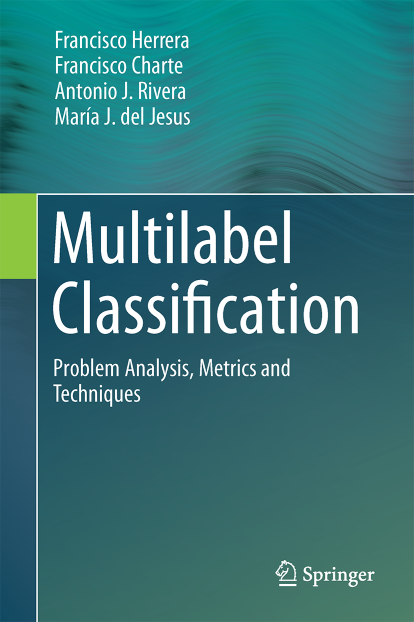
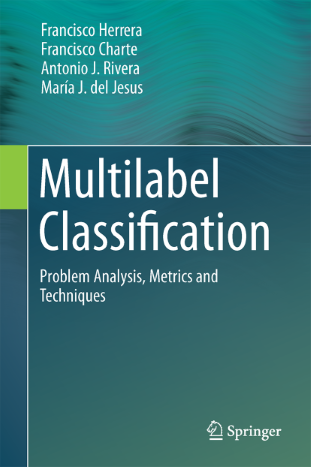
Resize book cover and link it to the book's web page

diff --git a/README.md b/README.md
@@ -4,7 +4,7 @@ by [Francisco Herrera](https://scholar.google.es/citations?hl=es&user=HULIk-QAAA
 
 [Springer](http://www.springer.com/gp/book/9783319411101), 2016.
 
-![Book Cover](Resources/BookCover.png)
+[![Book Cover](Resources/BookCover.png)](http://www.springer.com/gp/book/9783319411101)
 
 This repository provides the multilabel datasets used throughout the chapters of the book *Multilabel Classification - Problem analysis, metrics and techniques*, as well as some code and links. Click the folder corresponding the chapters (in the list above) to download the files you are interested in. You can also clone the entire repository, as well as to download it as a ZIP file.
 
